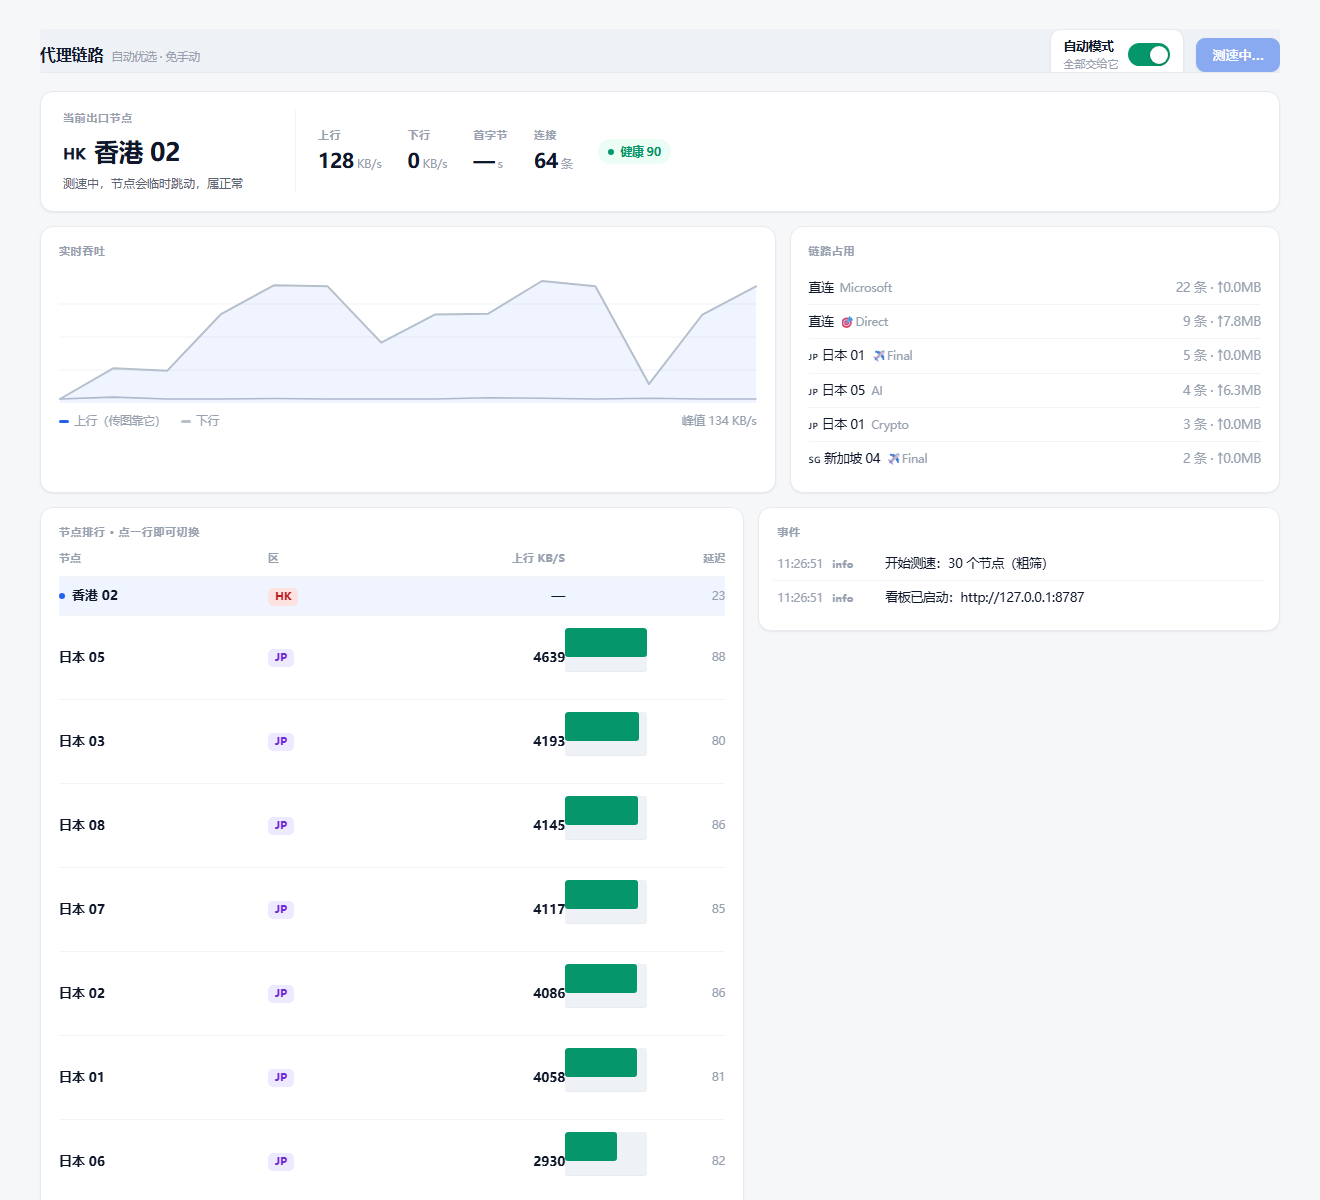
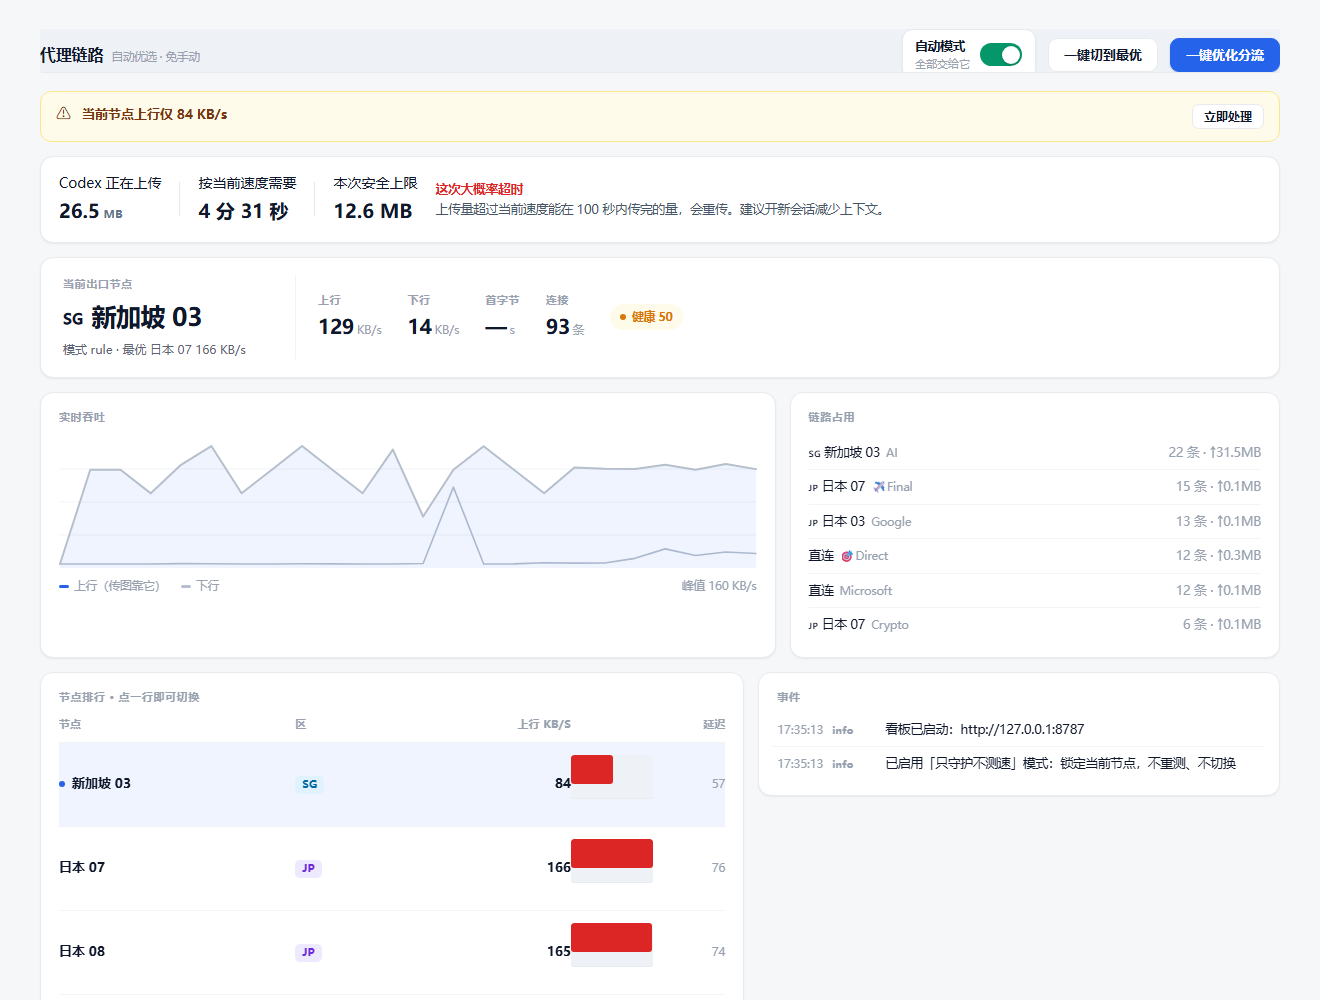
feat: 一键优化分流 + Codex 传输超时预判
两个功能，都是从实际踩坑里长出来的：

1. 一键优化分流
   之前 Codex（AI 组 28 条）和浏览器（Google 组 17 条）挤在同一条
   AnyTLS 隧道里，一方上传就把另一方堵死。现在一键做完三件事：
   每个候选节点测 2 次取中位数（单测会被瞬时峰值骗，之前吃过亏）
   → 最快的给 AI 组、第二快的给 Google 组
   → 断掉两组里还赖在旧节点上的连接（切节点不迁移已有 TCP）

2. Codex 传输超时预判
   重传的算式：上传量 ÷ 上行速度 > 超时阈值 就必然失败。
   看板直接显示「正在上传 X MB / 需要 Y 秒 / 安全上限 Z MB」，
   超过就红字提示这次大概率超时，建议开新会话。

顺带修：安全上限定标时多除了一次 1024，导致永远显示 0.0、全判超时。

diff --git a/dashboard.html b/dashboard.html
@@ -155,13 +155,38 @@
     </div>
     <div class="sw on" id="swAuto"></div>
   </div>
-  <button class="btn primary" id="btnUnify" onclick="unifyNow()">一键切到最优</button>
+  <button class="btn" id="btnUnify" onclick="unifyNow()">切到最优</button>
+  <button class="btn primary" id="btnOpt" onclick="optimizeNow()">一键优化分流</button>
 </div>
 
 <div class="alert" id="alert">
   <span class="ic">⚠</span>
   <div id="alertText" style="flex:1"></div>
   <div class="act"><button class="btn sm" id="alertBtn" onclick="unifyNow()">立即处理</button></div>
+</div>
+
+<div class="card" id="cxCard" style="display:none;margin-bottom:14px">
+  <div style="display:flex;align-items:center;gap:18px;flex-wrap:wrap">
+    <div>
+      <div class="cap">Codex 正在上传</div>
+      <div style="font-size:19px;font-weight:640;margin-top:3px">
+        <span id="cxUp">—</span><small style="font-size:11px;color:#64748b;margin-left:4px">MB</small>
+      </div>
+    </div>
+    <div style="width:1px;height:34px;background:#e2e8f0"></div>
+    <div>
+      <div class="cap">按当前速度需要</div>
+      <div style="font-size:19px;font-weight:640;margin-top:3px"><span id="cxEta">—</span></div>
+    </div>
+    <div style="width:1px;height:34px;background:#e2e8f0"></div>
+    <div>
+      <div class="cap">本次安全上限</div>
+      <div style="font-size:19px;font-weight:640;margin-top:3px"><span id="cxLimit">—</span></div>
+    </div>
+    <div style="flex:1;min-width:180px">
+      <div id="cxHint" style="font-size:12.5px;line-height:1.6;color:#475569">—</div>
+    </div>
+  </div>
 </div>
 
 <div class="card hero">
@@ -230,6 +255,7 @@
 
 <script>
 const $=id=>document.getElementById(id);
+const fmtEta=sec=>sec<60?Math.round(sec)+' 秒':(sec<3600?Math.round(sec/60)+' 分 '+Math.round(sec%60)+' 秒':'>1 小时');
 const fmt=v=>(v>50*1024*1024)?'—':(v>=1024?(v/1024).toFixed(1)+' MB/s':Math.round(v)+' KB/s');
 const sname=n=>(n||'').replace(/[\u{1F1E6}-\u{1F1FF}]{2}\s*/gu,'').trim()||n;
 const flag=n=>(n||'').match(/[\u{1F1E6}-\u{1F1FF}]{2}/u)?.[0]||'';
@@ -279,6 +305,27 @@ function render(s){
   if(s.stale_count) note+=` · ${s.stale_count} 条连接赖在慢节点`;
   if(s.bench_running) note='测速中，节点会临时跳动，属正常';
   $('hNote').textContent=note;
+
+  // ---- Codex 传输状态（只有它真在传时才显示）----
+  const cx=s.codex||{};
+  if(cx.conns>0 && (cx.upload_mb||0)>0.2){
+    $('cxCard').style.display='';
+    $('cxUp').textContent=(cx.upload_mb||0).toFixed(1);
+    $('cxEta').textContent=(cx.eta_seconds!=null)?fmtEta(cx.eta_seconds):'—';
+    $('cxLimit').textContent=(cx.safe_limit_mb!=null)?cx.safe_limit_mb.toFixed(1)+' MB':'—';
+    const hint=$('cxHint');
+    if(cx.risk==='timeout'){
+      hint.innerHTML='<b style="color:#dc2626">这次大概率超时</b><br>上传量超过当前速度能在 100 秒内传完的量，会重传。建议开新会话减少上下文。';
+    }else if(cx.risk==='borderline'){
+      hint.innerHTML='<b style="color:#d97706">压线</b><br>刚好在超时边缘，可能成功也可能重传。';
+    }else if(cx.risk==='ok'){
+      hint.innerHTML='<b style="color:#059669">在安全范围内</b><br>预计能一次传完，不会重传。';
+    }else{
+      hint.textContent='正在采样，稍后给出判断。';
+    }
+  }else{
+    $('cxCard').style.display='none';
+  }
 
   // 告警
   if(s.stale_count>0){
@@ -360,10 +407,46 @@ function drawChart(hs){
 }
 
 async function pick(n){await fetch('/api/switch?node='+encodeURIComponent(n));pull();}
+async function optimizeNow(){
+  const b=$('btnOpt'); if(b.disabled) return;
+  const old=b.textContent;
+  b.disabled=true; b.textContent='优化中…（约 1–2 分钟）';
+  try{ await fetch('/api/optimize'); }catch(e){}
+  let n=0;
+  const timer=setInterval(async()=>{
+    n++;
+    try{
+      const s=await (await fetch('/api/state')).json();
+      if(!s.opt_running){
+        clearInterval(timer);
+        b.disabled=false; b.textContent=old;
+        const r=s.opt_result||{};
+        if(r.ok) toast('已优化：Codex → '+r.ai_node+'，浏览器 → '+r.google_node+(r.moved?'，迁移 '+r.moved+' 条连接':''));
+        else toast('优化失败：'+(r.reason||'未知原因'));
+        tick();
+      }
+    }catch(e){}
+    if(n>180){ clearInterval(timer); b.disabled=false; b.textContent=old; toast('优化超时，请重试'); }
+  },1000);
+}
+
 async function unifyNow(){await fetch('/api/unify');pull();}
 async function toggle(k){await fetch('/api/toggle?k='+k);pull();}
 
 pull();setInterval(pull,1500);
+</script>
+<div id="toast" style="position:fixed;left:50%;bottom:28px;transform:translateX(-50%) translateY(20px);
+  background:#0f172a;color:#fff;padding:11px 18px;border-radius:9px;font-size:13px;
+  opacity:0;pointer-events:none;transition:.25s;z-index:99;max-width:80vw"></div>
+<script>
+let _toastTimer;
+function toast(msg){
+  const el=document.getElementById('toast');
+  el.textContent=msg;
+  el.style.opacity='1'; el.style.transform='translateX(-50%) translateY(0)';
+  clearTimeout(_toastTimer);
+  _toastTimer=setTimeout(()=>{ el.style.opacity='0'; el.style.transform='translateX(-50%) translateY(20px)'; },4200);
+}
 </script>
 </body>
 </html>

diff --git a/clash_opt.py b/clash_opt.py
@@ -95,6 +95,8 @@ TH_UP_MIN = 250     # KB/s  低于此值判定"上行残疾"
 TH_TTFB_OK = 1.2    # s
 TH_TTFB_BAD = 3.0   # s
 TH_LAT_OK = 180     # ms
+# Codex 这类流式请求的服务端超时经验值，用于判断「这次上传会不会来不及」
+TIMEOUT_SECONDS = 100
 
 _state = {}
 _lock = threading.Lock()
@@ -595,6 +597,154 @@ def unify(kill_stale=True):
     return {"ok": True, "node": b, "killed": killed, "skipped": skipped}
 
 
+# ---------------------------------------------------------------- 一键优化分流
+_opt_running = False
+_opt_result = {}
+
+
+def _group_conns(group):
+    """取某个组当前所有连接 [(id, 实际节点, host, 进程)]。"""
+    d = api("/connections") or {}
+    out = []
+    for c in (d.get("connections") or []):
+        ch = c.get("chains") or []
+        if len(ch) < 2 or ch[-1] != group:
+            continue
+        meta = c.get("metadata") or {}
+        out.append((c.get("id"), ch[0], str(meta.get("host") or ""),
+                    str(meta.get("process") or "")))
+    return out
+
+
+def codex_stats():
+    """Codex 当前传输状况：传了多少、按现速要多久、是否可能超时。
+    超时阈值默认 100 秒（OpenAI 流式请求常见值）。"""
+    d = api("/connections") or {}
+    up_mb, conns, dn_mb = 0.0, 0, 0.0
+    for c in (d.get("connections") or []):
+        meta = c.get("metadata") or {}
+        if str(meta.get("process") or "").lower() != "codex.exe":
+            continue
+        conns += 1
+        up_mb += (c.get("upload") or 0) / 1048576
+        dn_mb += (c.get("download") or 0) / 1048576
+    # 优先用 1 秒采集的实时上行；刚启动还没采到、或当前正好空闲时，
+    # 退回最近一次测速的最优值，避免算出「要 3 小时」这种荒谬结果。
+    spd = (_state.get("rate") or {}).get("up", 0)
+    src = "realtime"
+    if spd < 20:
+        spd = _rank[0]["up_kbps"] if _rank else 0
+        src = "bench"
+    if spd < 20:
+        return {"conns": conns, "upload_mb": round(up_mb, 2),
+                "download_mb": round(dn_mb, 2), "up_kbps": 0,
+                "eta_seconds": None, "safe_limit_mb": None, "risk": "unknown"}
+
+    eta = (up_mb * 1024) / spd if up_mb else 0
+    # spd 是 KB/s，乘秒得到 KB，再 /1024 得 MB。
+    # 之前多除了一次 1024，结果永远是 0.0，于是全判超时。
+    limit_mb = spd * TIMEOUT_SECONDS / 1024
+    risk = "ok"
+    if up_mb > limit_mb * 1.15:
+        risk = "timeout"
+    elif up_mb > limit_mb * 0.85:
+        risk = "borderline"
+    return {
+        "conns": conns,
+        "upload_mb": round(up_mb, 2),
+        "download_mb": round(dn_mb, 2),
+        "up_kbps": round(spd),
+        "speed_source": src,
+        "eta_seconds": round(eta),
+        "safe_limit_mb": round(limit_mb, 1),
+        "risk": risk,
+    }
+
+
+def optimize_routing():
+    """一键优化分流：
+    1. 拿当前 AI / Google 组节点 + 排行榜前几名做候选
+    2. 每个测 2 次取中位数（单次会被瞬时峰值骗，之前吃过亏）
+    3. 最快的给 AI（Codex 主力），第二快的给 Google
+    4. 断掉两组里还赖在旧节点上的连接，强制迁移
+    """
+    global _opt_running, _opt_result
+    _opt_running = True
+    report = {"ok": False, "at": time.strftime("%H:%M:%S"), "steps": []}
+    try:
+        g = get_groups()
+        cur_ai = (g.get("AI") or {}).get("now")
+        cur_gg = (g.get("Google") or {}).get("now")
+        cands = []
+        for n in [cur_ai, cur_gg] + [r["node"] for r in _rank[:4]]:
+            if n and n not in cands and not any(p in str(n) for p in PSEUDO):
+                cands.append(n)
+        cands = cands[:6]
+        if not cands:
+            report["reason"] = "没有可用候选节点"
+            return report
+
+        report["steps"].append(f"候选 {len(cands)} 个：{', '.join(short(c) for c in cands)}")
+
+        # 逐个测 2 次取中位
+        scored = []
+        for n in cands:
+            if not set_node("Proxies", n):
+                continue
+            time.sleep(1.0)
+            a, _, _ = upload_test(n, 512, 8)
+            time.sleep(0.4)
+            b, _, _ = upload_test(n, 512, 8)
+            mid = sorted([a, b])[0]
+            scored.append((n, mid))
+            log(f"优化测速 {short(n)}: {a:.0f} / {b:.0f} → 中位 {mid:.0f} KB/s", "switch")
+        scored.sort(key=lambda x: -x[1])
+        if not scored:
+            report["reason"] = "所有候选都测不出速度"
+            return report
+
+        top = scored[:2] if len(scored) >= 2 else [scored[0], scored[0]]
+        ai_node, gg_node = top[0][0], top[1][0]
+
+        set_node("AI", ai_node)
+        set_node("Google", gg_node)
+        set_node("Proxies", ai_node)
+        report["ai_node"] = ai_node
+        report["google_node"] = gg_node
+        report["ai_kbps"] = round(top[0][1])
+        report["google_kbps"] = round(top[1][1])
+        report["steps"].append(
+            f"AI → {short(ai_node)}（{top[0][1]:.0f} KB/s），"
+            f"Google → {short(gg_node)}（{top[1][1]:.0f} KB/s）")
+
+        # 断掉两组里不在新节点上的连接（切节点不迁移老 TCP）
+        time.sleep(1.5)
+        moved = 0
+        for grp, want in (("AI", ai_node), ("Google", gg_node)):
+            for cid, node, host, proc in _group_conns(grp):
+                if node != want:
+                    r = api(f"/connections/{cid}", "DELETE")
+                    if not (isinstance(r, dict) and "_error" in r):
+                        moved += 1
+        report["moved"] = moved
+        report["steps"].append(f"断开 {moved} 条旧连接，强制重连到新节点")
+
+        log(f"一键优化完成：AI→{short(ai_node)}，Google→{short(gg_node)}，迁移 {moved} 条", "switch")
+        report["ok"] = True
+        return report
+    except Exception as e:  # noqa: BLE001
+        report["reason"] = f"出错：{e}"
+        log(f"一键优化失败: {e}", "error")
+        return report
+    finally:
+        _opt_running = False
+        _opt_result = report
+
+
+def _opt_worker():
+    optimize_routing()
+
+
 # ---------------------------------------------------------------- 采集器
 def sample_conns(prev):
     d = api("/connections") or {}
@@ -814,12 +964,24 @@ class Handler(BaseHTTPRequestHandler):
                 payload["auto_pick"] = _auto_pick
                 payload["auto_unify"] = _auto_unify
                 payload["bench_running"] = _bench_running
+                payload["opt_running"] = _opt_running
+                payload["opt_result"] = _opt_result
             payload["health"] = score_health()
+            try:
+                payload["codex"] = codex_stats()
+            except Exception:  # noqa: BLE001
+                payload["codex"] = {}
             return self._send(200, json.dumps(payload, ensure_ascii=False))
         if u.path == "/api/unify":
             qs = urllib.parse.parse_qs(u.query)
             kill = (qs.get("kill") or ["1"])[0] != "0"
             return self._send(200, json.dumps(unify(kill), ensure_ascii=False))
+        if u.path == "/api/optimize":
+            if not _opt_running:
+                threading.Thread(target=_opt_worker, daemon=True).start()
+            return self._send(200, json.dumps({"started": True}))
+        if u.path == "/api/codex":
+            return self._send(200, json.dumps(codex_stats(), ensure_ascii=False))
         if u.path == "/api/bench":
             threading.Thread(target=bench, daemon=True).start()
             return self._send(200, json.dumps({"ok": True}))
